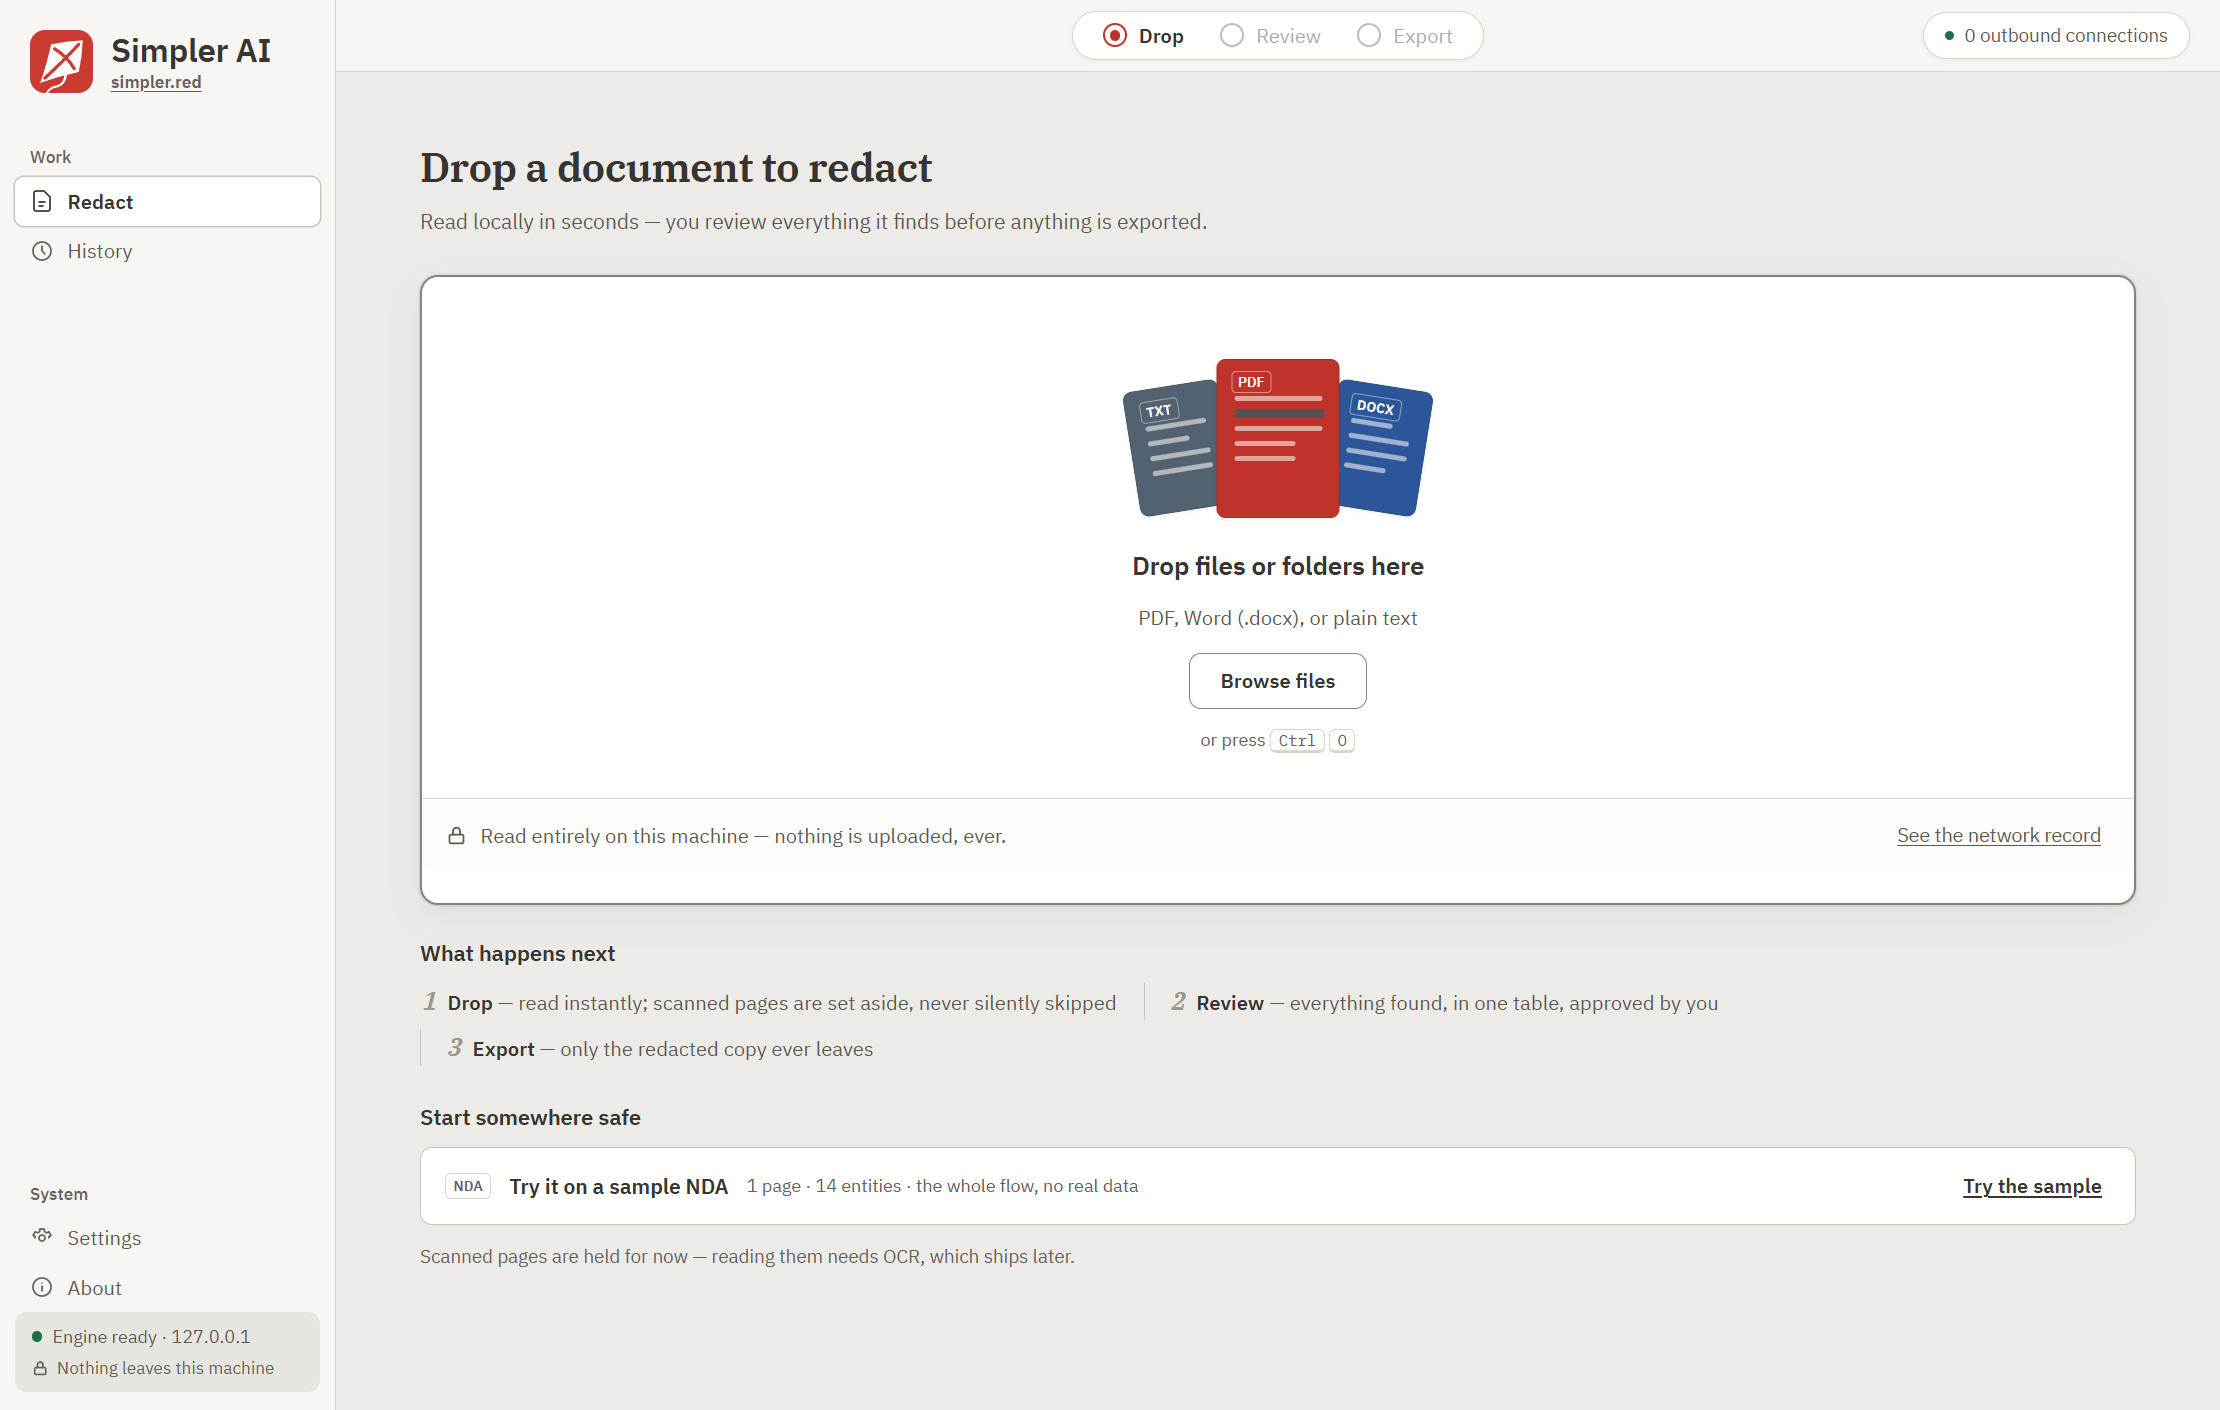
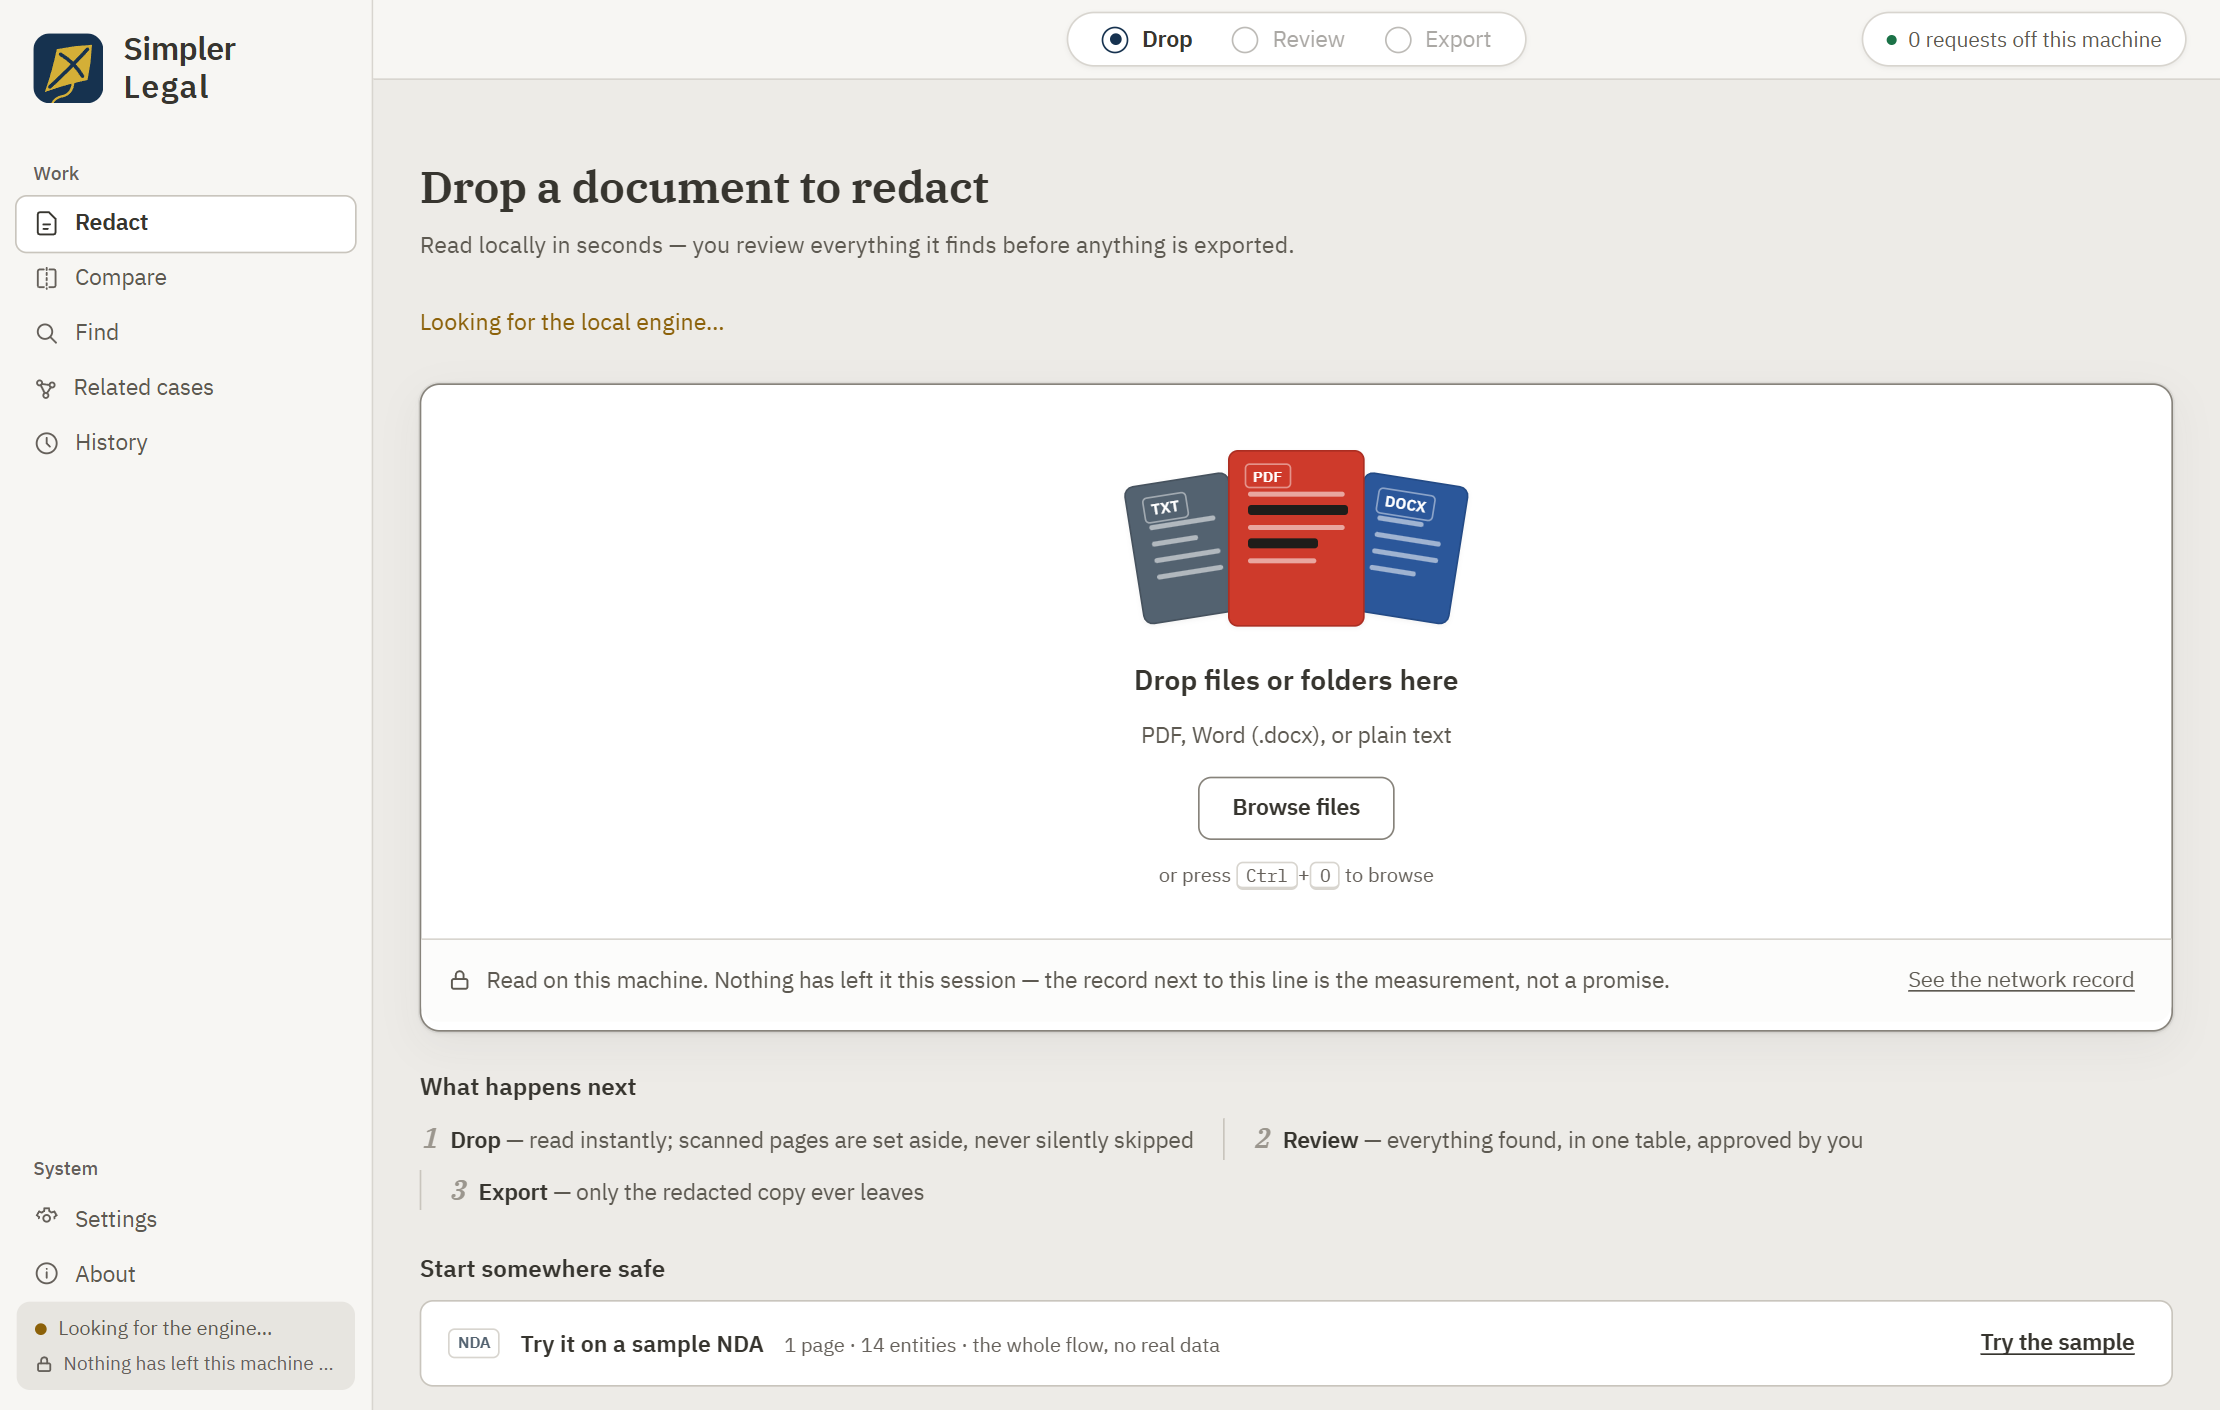
Simpler Legal's own screenshots and preview card
- site/assets/react-app-drop-v2.png, react-app-review.png, react-app-export.png: taken from
  the app's frontend with no model running. Review and Export show the built-in sample NDA,
  which the app labels a fixed demo list, not an engine run.
- site/assets/og-card.png: the preview card, with the page's own title and a crop of the
  review screen.
- site/index.html: the preview-image tags are back, the three alt texts describe the new
  screenshots, and the caption about simpler-red is gone.
- LAUNCH.md, "Published", "The images": how they were taken. Section 3.8 is closed.
- OPS_LEDGER.md, 2026-09-27: the same, with the memory measured.

diff --git a/site/index.html b/site/index.html
@@ -62,7 +62,12 @@
 <meta property="og:site_name" content="Simpler Legal" />
 <meta property="og:title" content="Redact legal documents before they leave your machine" />
 <meta property="og:description" content="A local redaction engine for legal documents, Apache-2.0-licensed, with its source on GitHub. People's names and identifiers are removed — not covered — on your own hardware: 46 unseen SEC-filed business agreements, zero identity leaks across four consecutive fresh draws (45 of them ran the engine as it stood before its freeze, 1 ran the frozen engine). Court judgments and a firm's own filings still leak some, and the evidence says how many. Dates, amounts and most places (not a person's address) stay readable on purpose, and by default so do company names. There is no account, no API key and no server of ours." />
-<meta name="twitter:card" content="summary" />
+<meta property="og:image" content="https://simpler.legal/assets/og-card.png" />
+<meta property="og:image:width" content="1200" />
+<meta property="og:image:height" content="630" />
+<meta property="og:image:alt" content="Simpler Legal: redact legal documents before they leave your machine. Beside the title, the app's review screen on its sample document, with names and companies replaced by tags." />
+<meta name="twitter:card" content="summary_large_image" />
+<meta name="twitter:image" content="https://simpler.legal/assets/og-card.png" />
 <!--
   SLOT PROTOCOL (for the session that lands the final numbers):
   every element with [data-slot] is a placeholder awaiting measured results.
@@ -434,9 +439,8 @@
 
   <div class="fold">
     <div class="shot wrap" style="padding:0">
-      <img src="assets/react-app-drop-v2.png" alt="A screenshot of the sibling app simpler-red, not of Simpler Legal: the simpler.red masthead with its kite, a document drop sheet with TXT, PDF and DOCX file cards, a trust footer stating nothing is uploaded, and the Drop, Review, Export stepper — engine ready at 127.0.0.1." />
+      <img src="assets/react-app-drop-v2.png" alt="The Drop screen of Simpler Legal just after launch, while it looks for the local engine: a drop sheet for PDF, Word and plain-text files, a line saying nothing has left this machine this session beside a link to the network record, the Drop, Review and Export steps, a counter reading 0 requests off this machine, and an offer to try it on a sample NDA." />
     </div>
-    <p class="cta-note" style="margin-top:10px">Screenshots on this page are of the sibling app simpler-red, not of Simpler Legal.</p>
   </div>
 </div>
 
@@ -725,7 +729,7 @@
     </div>
     <div class="shots">
       <div class="shotcard">
-        <img src="assets/react-app-review.png" loading="lazy" alt="The review screen of the sibling app simpler-red, not of Simpler Legal: the original document and the redacted copy side by side with strong colored highlights, a guided-review card walking a pending item, and an entity table with confirm and leave-visible controls per row." />
+        <img src="assets/react-app-review.png" loading="lazy" alt="The review screen of Simpler Legal on its built-in sample NDA, which the app labels a fixed demo list, not an engine run: the original and the redacted copy side by side, names, companies, an address, an ID and phone numbers highlighted in the original and replaced by tags such as COMPANY 1 and PERSON 1 in the copy, an entity table grouped by kind, and a count reading 7 decided by you, 7 as marked automatically, 0 waiting on you, above the button that finishes the review." />
         <p><b>Review.</b> Original and redacted side by side, every finding highlighted in place.
         The count under the table keeps apart what you decided and what stands as the machine
         marked it, and the receipt carries the same split. Rows an engine flags as uncertain are
@@ -734,7 +738,7 @@
         finish becomes readable, the finish comes off.</p>
       </div>
       <div class="shotcard">
-        <img src="assets/react-app-export.png" loading="lazy" alt="The export screen of the sibling app simpler-red, not of Simpler Legal: the found-kept-redacted funnel, verification checks including a partial-name check, a paper receipt, and buttons to copy the redacted text or save it as a file." />
+        <img src="assets/react-app-export.png" loading="lazy" alt="The export screen of Simpler Legal after the sample NDA's review: 14 found, 11 redacted in 13 tags, 3 left readable; a check that every name chosen for redaction is gone from the copy; a note that the entities come from the demo set; a receipt whose engine line reads none, fixed demo set; and buttons to copy the redacted text or save it as a file." />
         <p><b>Export.</b> The honest funnel, verify-by-extraction plus a partial-name check, a receipt
         for your records — then copy the redacted text straight into the AI you use, or save it as a
         file. The original is never touched.</p>

diff --git a/LAUNCH.md b/LAUNCH.md
@@ -68,9 +68,40 @@ carries:
 - the copyright line in `site/research.html`'s footer;
 - this record.
 
-**Still open, §3.8, the images.** The three screenshots are still simpler-red captures, and the
-page says so. There is no preview card. They are retaken from the real app when the machine has
-the memory for a live run (the 10 GB rule; `OPS_LEDGER.md`, 2026-09-27).
+**The images: the third public commit** (2026-09-27, a child of `95f2ebc`, same author) closes
+§3.8. The three screenshots and the preview card are now Simpler Legal's own. No model ran: the
+owner asked for the app to be run without the model up.
+- **How they were taken.** The app's frontend (`app/frontend`) ran on its development server at
+  `127.0.0.1:1435`. A headless Chrome opened it at 1332×846 CSS pixels and scale 5/3, so each
+  capture is 2220×1410, the size of the file it replaces. No model server and no engine service
+  were running.
+- **Drop** (`react-app-drop-v2.png`) is the screen just after launch, while the app looks for
+  the engine.
+  - The browser build words that line "Looking for the local engine…". The packaged app says
+    "Engine starting…" at the same moment.
+  - Once the probe gives up, the page shows an amber "isn't running" banner instead. That is
+    not the state in the picture.
+- **Review and Export** (`react-app-review.png`, `react-app-export.png`) show the built-in
+  sample NDA.
+  - The app labels it "a fixed demo list, not an engine run", and the receipt's engine line
+    reads "none — fixed demo set".
+  - Its seven flagged rows were decided through the guided card: four confirmed, and three
+    pieces of boilerplate left readable. Then the review was finished.
+  - The rows are the app's fixture (`sampleFile` in `app/frontend/src/lib/store.ts`), not an
+    engine's output. The frozen engine flags none, as the page's review text says.
+- **The card** (`og-card.png`, 1200×630) is rendered from HTML. It carries:
+  - the page's own `og:title` and the logo;
+  - `simpler.legal · Apache-2.0 · v0.1.0 for Windows`;
+  - a crop of the review capture.
+
+  It states no figure, so it cannot say more than the tags do (the rule in the head of
+  `site/index.html`).
+- **`site/index.html`:**
+  - The `og:image` and `twitter:image` tags are back, with `og:image:alt`, and `twitter:card`
+    is `summary_large_image`.
+  - The three alt texts describe the new captures.
+  - The caption about simpler-red is gone.
+- The four PNGs carry no text chunks: IHDR, IDAT and IEND only.
 
 ---
 
@@ -943,7 +974,7 @@ states each of these gaps instead of hiding it.
 
 *2026-09-27: the publication closed 3.1, 3.2, 3.3, 3.4 and 3.6 ("Published", at the top).
 For 3.3: the site's 32 GitHub `href`s, 15 distinct, all answered 200 when followed with no
-login. The rows below are as they were written, except 3.8, which is amended.*
+login. The rows below are as they were written, except 3.8, which is amended and then closed.*
 
 | # | Destination | Status |
 |---|---|---|
@@ -954,7 +985,7 @@ login. The rows below are as they were written, except 3.8, which is amended.*
 | 3.5 | `dl.simpler.legal` model mirror | **OPEN** — the name now answers **525**, like the apex, and serves nothing. A mirror also waits on §5. |
 | 3.6 | Security disclosure channel | **PARTIAL — owner step** — `SECURITY.md` (2026-09-25) sends reports through GitHub private vulnerability reporting, `github.com/Simpler-Systems/simpler-legal/security/advisories/new`, and publishes one e-mail address, `support@simpler.asia`, for a reporter who cannot use GitHub (owner ruling 30 as amended; `site-claims` law "security reports", which fails on any other address, on that address inside a longer domain and on a `mailto:` link). That address works only once the repository is public and private vulnerability reporting is switched on in its settings. |
 | 3.7 | Any contact address at all | **OPEN** — `mailto:`, `<form>` and `<input>` each count 0 on all three pages. |
-| 3.8 | Screenshots and OG card | **OPEN** — `site/assets/react-app-*.png` and `og-card.png` are still the files of 2026-07-22/23: simpler-red captures, with the card reading "Simpler Redact". The alt text now says "the sibling app simpler-red, not of Simpler Legal", and the source comment above them still says `DO NOT LAUNCH BEFORE THESE ARE RETAKEN`. Every share of the link renders another product's wordmark. *Amended 2026-09-27:* still **OPEN** for the three screenshots, which the page labels as simpler-red captures. The site launched without a card: `og-card.png` is deleted, the page has no `og:image` or `twitter:image`, `twitter:card` is `summary`, and both `DO NOT LAUNCH` comments are gone. A shared link renders no image. |
+| 3.8 | Screenshots and OG card | **OPEN** — `site/assets/react-app-*.png` and `og-card.png` are still the files of 2026-07-22/23: simpler-red captures, with the card reading "Simpler Redact". The alt text now says "the sibling app simpler-red, not of Simpler Legal", and the source comment above them still says `DO NOT LAUNCH BEFORE THESE ARE RETAKEN`. Every share of the link renders another product's wordmark. *Amended 2026-09-27:* still **OPEN** for the three screenshots, which the page labels as simpler-red captures. The site launched without a card: `og-card.png` is deleted, the page has no `og:image` or `twitter:image`, `twitter:card` is `summary`, and both `DO NOT LAUNCH` comments are gone. A shared link renders no image. *Closed later on 2026-09-27:* the three screenshots and the card are Simpler Legal's own, taken without a model ("Published", at the top, "The images"). |
 
 ---
 

diff --git a/OPS_LEDGER.md b/OPS_LEDGER.md
@@ -1393,3 +1393,11 @@ No workflow ran. Every step was a command in the main session, and each finished
    to run a document through the engine. Free memory was 5.9 of 31.1 GB, with 49.7 of 52.7 GB
    committed, and the owner's programs held most of it. The owner chose to publish the text
    now and the images in a later commit. Nothing ran below the rule.
+   - Later the same day the owner asked for the app to be run without the model, and the
+     images were taken that way (`LAUNCH.md`, "Published", "The images").
+   - The frontend's development server and a headless Chrome ran, using 108 MB and 881 MB in
+     9 processes. Nothing listened on 49400 or 1436. Free memory was 4.4–5.5 GB. The 10 GB
+     rule is for a run of the engine, and none ran.
+   - The first capture through the Chrome extension came back blank, because the tab it drove
+     was not visible (`document.visibilityState` "hidden"). The captures went through a
+     separate headless Chrome instead, which also fixes the pixel size.
